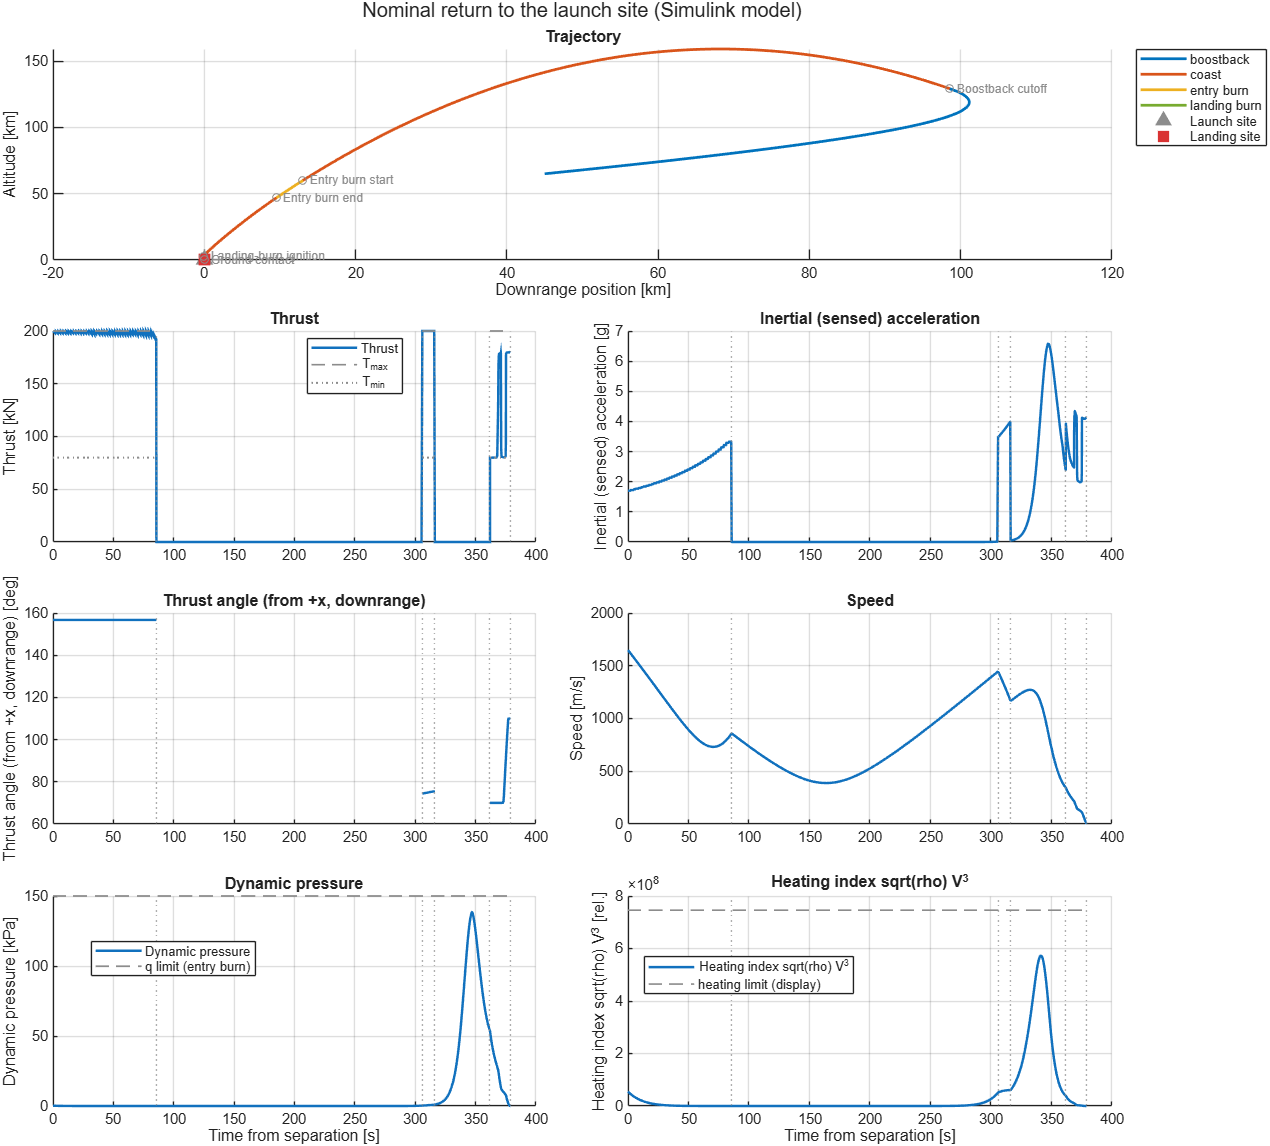
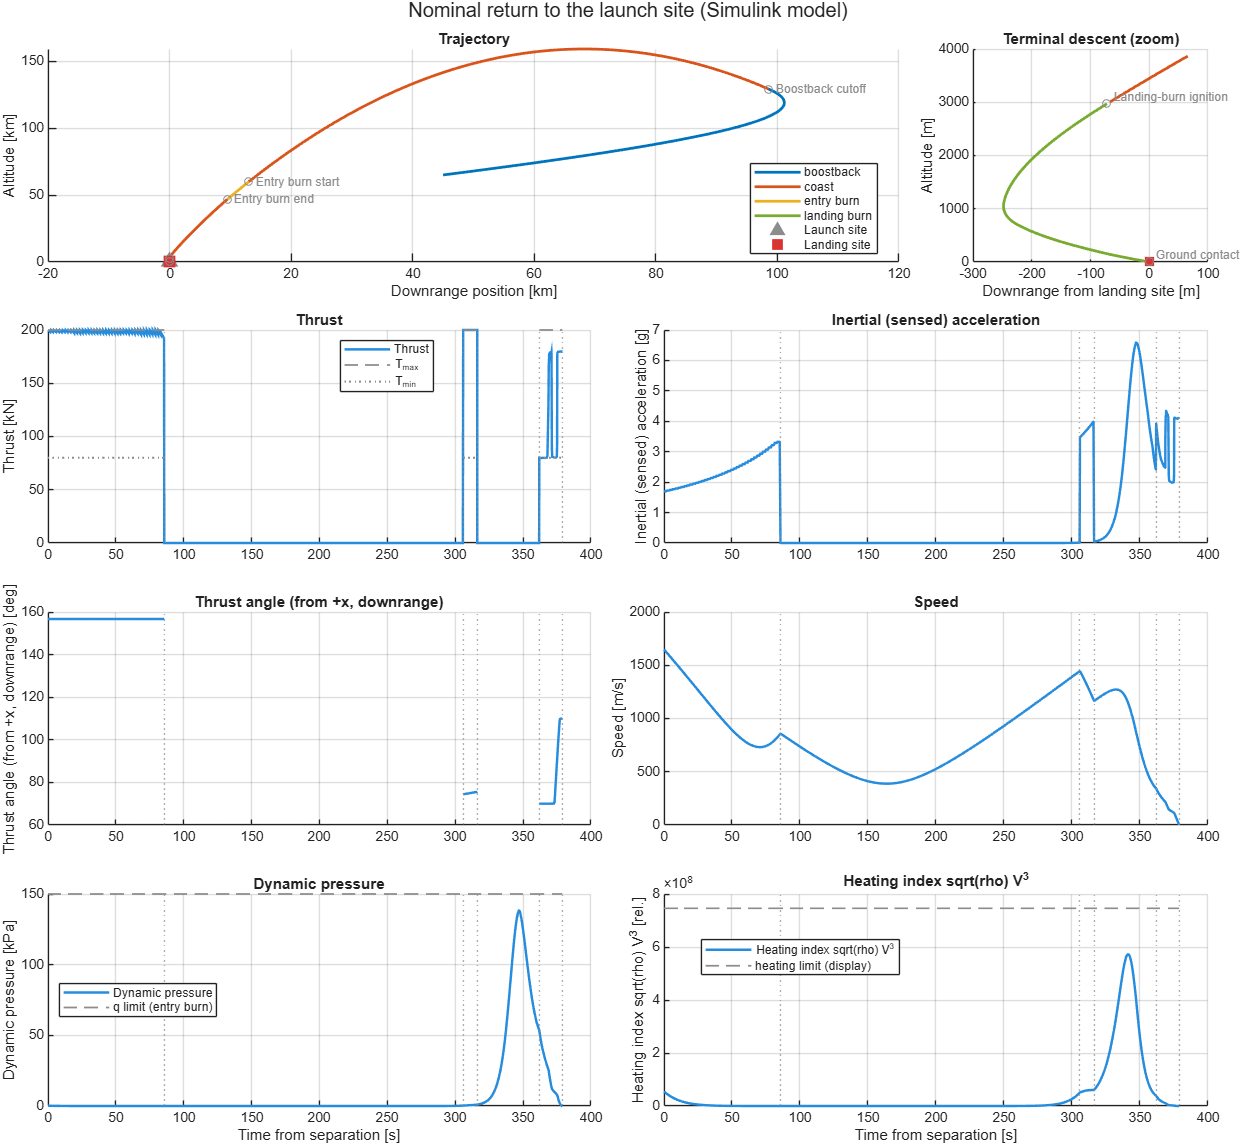
Flight-record plot: terminal-descent zoom of the landing burn
The landing burn spans the last ~3 km of a ~160 km trajectory and was
invisible at full scale. The trajectory row now has a zoom tile (metres
relative to the pad, from 1.3x the ignition altitude); option
LandingZoom=false turns it off. README figure regenerated.

diff --git a/sim/plot_flight_record.m b/sim/plot_flight_record.m
@@ -8,6 +8,7 @@ function fig = plot_flight_record(src, opts)
 %   plot_flight_record(..., Panels=["thrust" "dynPressure" "mach"])
 %   plot_flight_record(..., Trajectory=false)
 %   plot_flight_record(..., Title="Nominal return")  % custom figure title
+%   plot_flight_record(..., LandingZoom=false)       % no terminal-descent inset
 %
 %   Layout: the trajectory (downrange vs altitude, coloured by flight
 %   phase, events marked) across the top, then one panel per signal name in
@@ -22,6 +23,7 @@ arguments
                                 "speed", "dynPressure", "heatIndex"]
     opts.Trajectory (1,1) logical = true
     opts.Title (1,1) string = ""          % default: record name, source, date, code version
+    opts.LandingZoom (1,1) logical = true % inset of the terminal descent (if there is a landing burn)
 end
 
 if isstruct(src)
@@ -41,7 +43,7 @@ nPanels = numel(opts.Panels);
 nRows = ceil(nPanels / 2) + opts.Trajectory;
 
 fig = figure('Name', "Flight record: " + rec.meta.name, 'Position', [60 40 1150 240 * nRows + 60]);
-tl = tiledlayout(nRows, 2, 'TileSpacing', 'compact', 'Padding', 'compact');
+tl = tiledlayout(nRows, 4, 'TileSpacing', 'compact', 'Padding', 'compact');
 if strlength(opts.Title) > 0
     title(tl, opts.Title, 'Interpreter', 'none');
 else
@@ -51,7 +53,8 @@ end
 
 % ---- Trajectory ----
 if opts.Trajectory
-    ax = nexttile(tl, [1 2]); hold(ax, 'on');
+    iZoom = terminalDescent(rec, opts.LandingZoom);
+    ax = nexttile(tl, [1 4 - ~isempty(iZoom)]); hold(ax, 'on');
     xd = displayOf(rec, "x"); yd = displayOf(rec, "altitude");
     for ph = categories(sig.phase)'
         sel = sig.phase == ph{1};
@@ -71,6 +74,7 @@ if opts.Trajectory
         if isempty(i), i = numel(t); end
         plot(ax, sig.x(i) * xd.displayScale, sig.altitude(i) * yd.displayScale, 'o', ...
              'MarkerSize', 5, 'Color', refColor, 'HandleVisibility', 'off');
+        if ismember(i, iZoom), continue, end     % labelled in the zoom instead
         text(ax, sig.x(i) * xd.displayScale, sig.altitude(i) * yd.displayScale, ...
              "  " + rec.events.name(k), 'FontSize', 8, 'Color', refColor);
     end
@@ -78,7 +82,10 @@ if opts.Trajectory
     xlabel(ax, sprintf('%s [%s]', xd.description, xd.displayUnit));
     ylabel(ax, sprintf('%s [%s]', yd.description, yd.displayUnit));
     title(ax, 'Trajectory');
-    legend(ax, 'Location', 'bestoutside');
+    legend(ax, 'Location', 'best');
+    if ~isempty(iZoom)
+        plotTerminalZoom(nexttile(tl), rec, iZoom, phaseColors, refColor);
+    end
 end
 
 % ---- Time histories ----
@@ -90,7 +97,7 @@ for k = 1:nPanels
             strjoin(setdiff(string(sig.Properties.VariableNames), ["t" "phase"]), ', '));
     end
     d = displayOf(rec, name);
-    ax = nexttile(tl); hold(ax, 'on');
+    ax = nexttile(tl, [1 2]); hold(ax, 'on');
     colorOrder = get(groot, 'defaultAxesColorOrder');
     drawSeries(ax, t, sig.(name) * d.displayScale, d.plotStyle, '-', 1.6, ...
                colorOrder(1,:), d.description);
@@ -130,6 +137,48 @@ if isempty(k)
 else
     d = rec.display(k);
 end
+end
+
+function iZoom = terminalDescent(rec, enabled)
+% Samples of the final descent from just above landing-burn ignition: the
+% landing burn spans a few km of a ~150 km trajectory, invisible at full scale.
+iZoom = [];
+sig = rec.signals;
+iIgn = find(sig.phase == "landing burn", 1);
+if ~enabled || isempty(iIgn), return, end
+zoomTop = 1.3 * sig.altitude(iIgn);
+i0 = find(sig.altitude(1:iIgn) > zoomTop, 1, 'last');
+if isempty(i0), i0 = 1; end
+iZoom = (i0:height(sig))';
+end
+
+function plotTerminalZoom(ax, rec, iZoom, phaseColors, refColor)
+% Terminal descent in metres relative to the pad, in its own tile.
+sig = rec.signals;
+xPad = 0;
+if isfield(rec.params, 'target'), xPad = rec.params.target.x; end
+hold(ax, 'on');
+x = sig.x(iZoom) - xPad; y = sig.altitude(iZoom); ph = sig.phase(iZoom);
+for c = categories(ph)'
+    sel = ph == c{1};
+    if ~any(sel), continue, end
+    xs = x; ys = y; xs(~sel) = NaN; ys(~sel) = NaN;
+    plot(ax, xs, ys, 'LineWidth', 1.8, 'Color', phaseColors(c{1}));
+end
+plot(ax, 0, 0, 's', 'MarkerSize', 7, 'Color', [0.85 0.2 0.2], 'MarkerFaceColor', [0.85 0.2 0.2]);
+t = sig.t;
+for k = 2:height(rec.events)
+    i = find(t >= rec.events.t(k), 1);
+    if isempty(i), i = numel(t); end
+    if ~ismember(i, iZoom), continue, end
+    plot(ax, sig.x(i) - xPad, sig.altitude(i), 'o', 'MarkerSize', 5, 'Color', refColor);
+    text(ax, sig.x(i) - xPad, sig.altitude(i), "  " + rec.events.name(k), ...
+         'FontSize', 8, 'Color', refColor, 'VerticalAlignment', 'bottom');
+end
+grid(ax, 'on');
+xlabel(ax, 'Downrange from landing site [m]');
+ylabel(ax, 'Altitude [m]');
+title(ax, 'Terminal descent (zoom)');
 end
 
 function drawSeries(ax, t, y, style, lineSpec, width, color, label)

diff --git a/README.md b/README.md
@@ -10,7 +10,8 @@ powered-descent guidance algorithms.
 ![Full mission in the Simulink model: trajectory and time histories](docs/images/mission_overview.png)
 
 *Nominal return to the launch site, flown in the Simulink model: trajectory
-coloured by flight phase, thrust with engine limits, inertial load,
+coloured by flight phase with a zoom on the landing burn (the last 3 km),
+thrust with engine limits, inertial load,
 thrust angle, speed, dynamic pressure and heating, each with its limit.*
 
 ## Results at a glance
